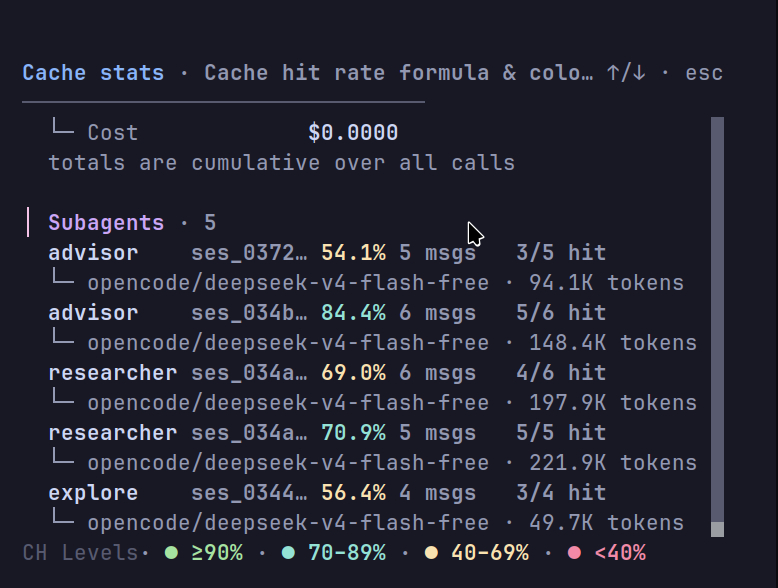
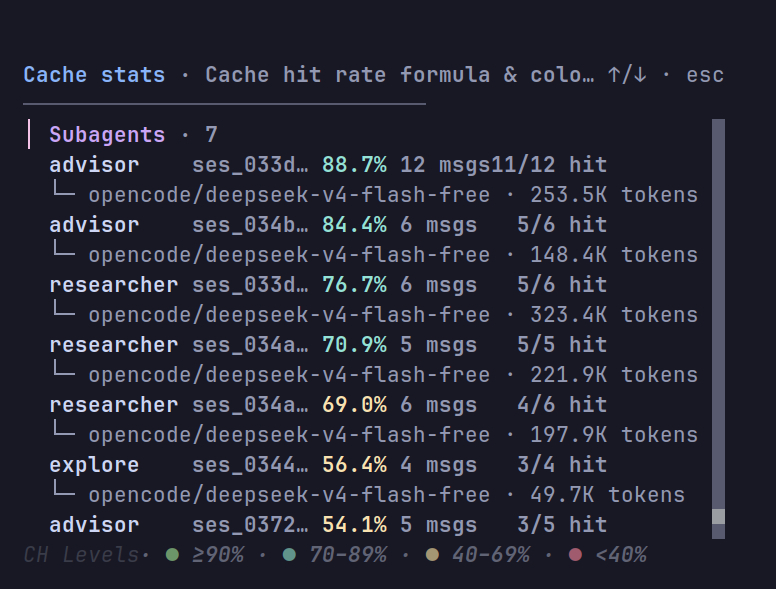
docs(cache-stats): add feature list and refresh preview images
Add a simple feature summary and replace the three preview
screenshots with current versions of the dialog.

Changed region(s): [[0.0309, 0.2143, 0.9588, 0.9796], [0.0309, 0.0918, 0.8351, 0.1837], [0.866, 0.0918, 0.9278, 0.1531]]

diff --git a/README.md b/README.md
@@ -4,6 +4,16 @@
 
 Run the `/cache-stats` command (or the `cache-stats.show` command) inside a session to open the dialog.
 
+## Features
+
+- Shows the cache hit rate of the active session with a hit bar and a verdict word.
+- Shows totals for tokens, calls, and cost.
+- Groups the totals by model and by subagent.
+- Shows the hit rate of each model and each subagent.
+- Shows averages per call and the last request.
+- Colors the rates by level: Excellent, Good, Fair, or Poor.
+- Scrolls with the arrow keys and the page keys.
+
 | Summary and models | Totals breakdown | Subagents |
 |:---:|:---:|:---:|
 | ![Session summary and models](assets/preview-summary.jpeg) | ![Grouped totals](assets/preview-totals.jpeg) | ![Subagent list](assets/preview-subagents.jpeg) |
